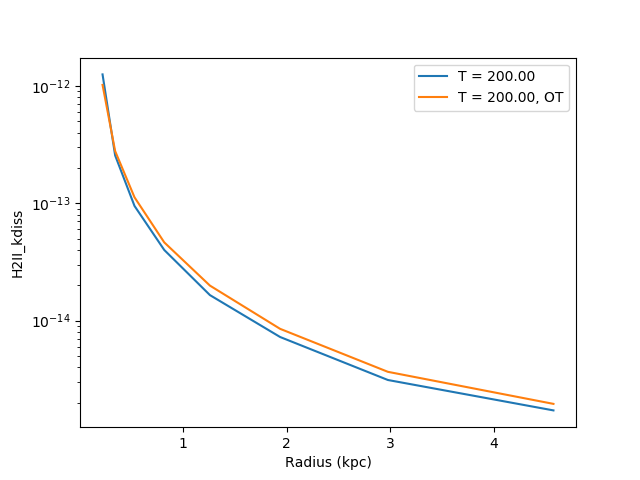
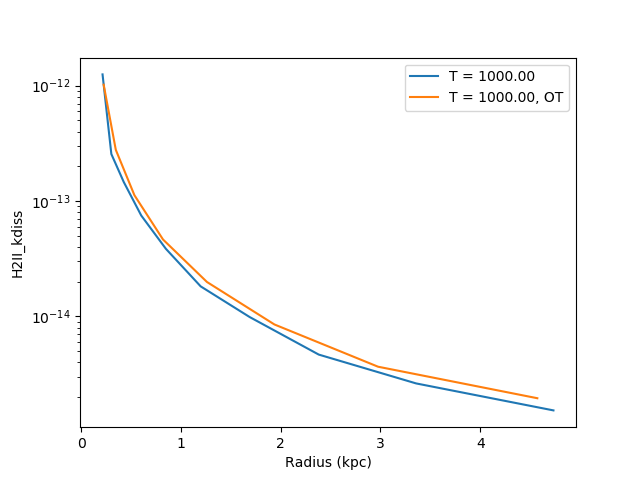
updating test parameters

diff --git a/run/RadiationTransport/PhotonTestMultiFrequency/radialbins.py b/run/RadiationTransport/PhotonTestMultiFrequency/radialbins.py
@@ -25,14 +25,14 @@ for elem in Fields:
     YFields.append(elem)
 
 print("Yfields = ", YFields)
-outputs = [20]
+outputs = [10]
 
 for outp in outputs:
     amrfile = "DD%4.4d/data%4.4d" % (outp, outp)
     print("Load file %s" % (amrfile))
     ds = yt.load(amrfile)
     sphere = ds.h.sphere(center, (250, 'kpc'))
-    rp = yt.create_profile(sphere, 'radius',  YFields, n_bins=8,
+    rp = yt.create_profile(sphere, 'radius',  YFields, n_bins=10,
                            units = {'radius': 'kpc', 'HM_kph' : '1/s',
                                     'HI_kph' : '1/s','H2I_kdiss' : '1/s',
                                     'H2II_kdiss' : '1/s',
